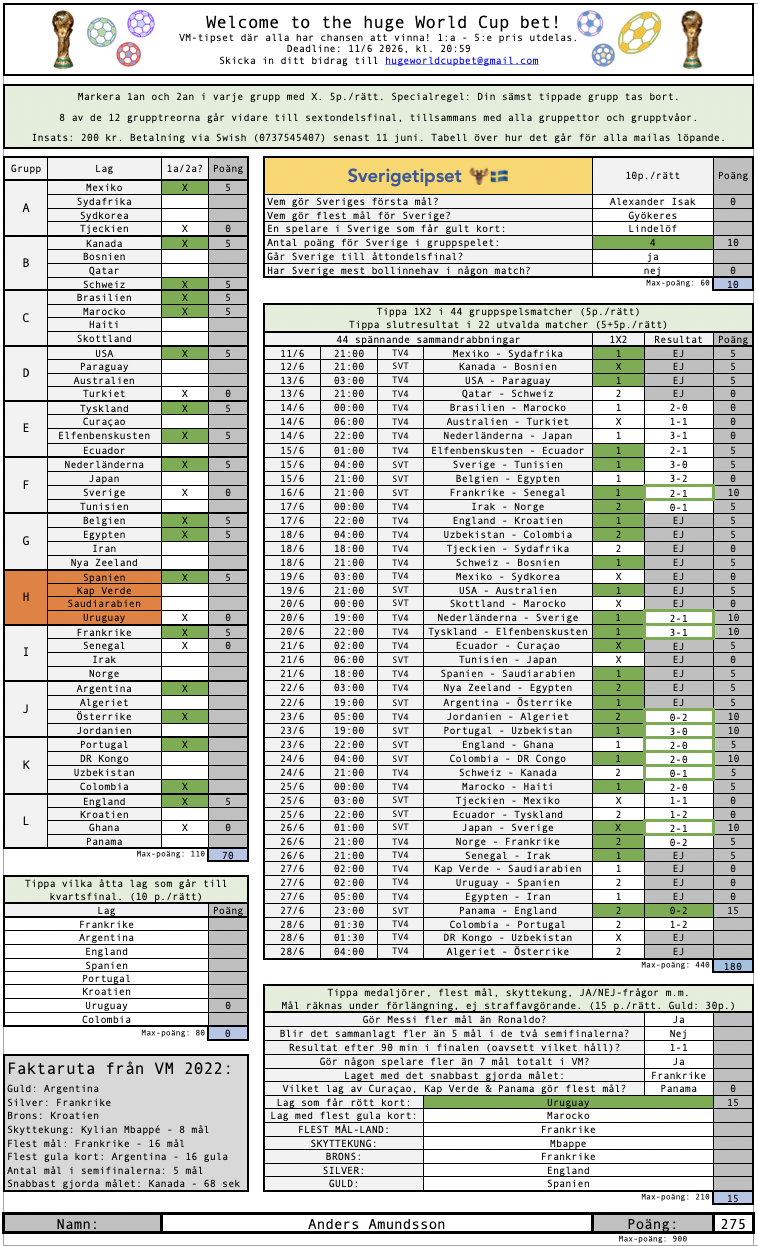
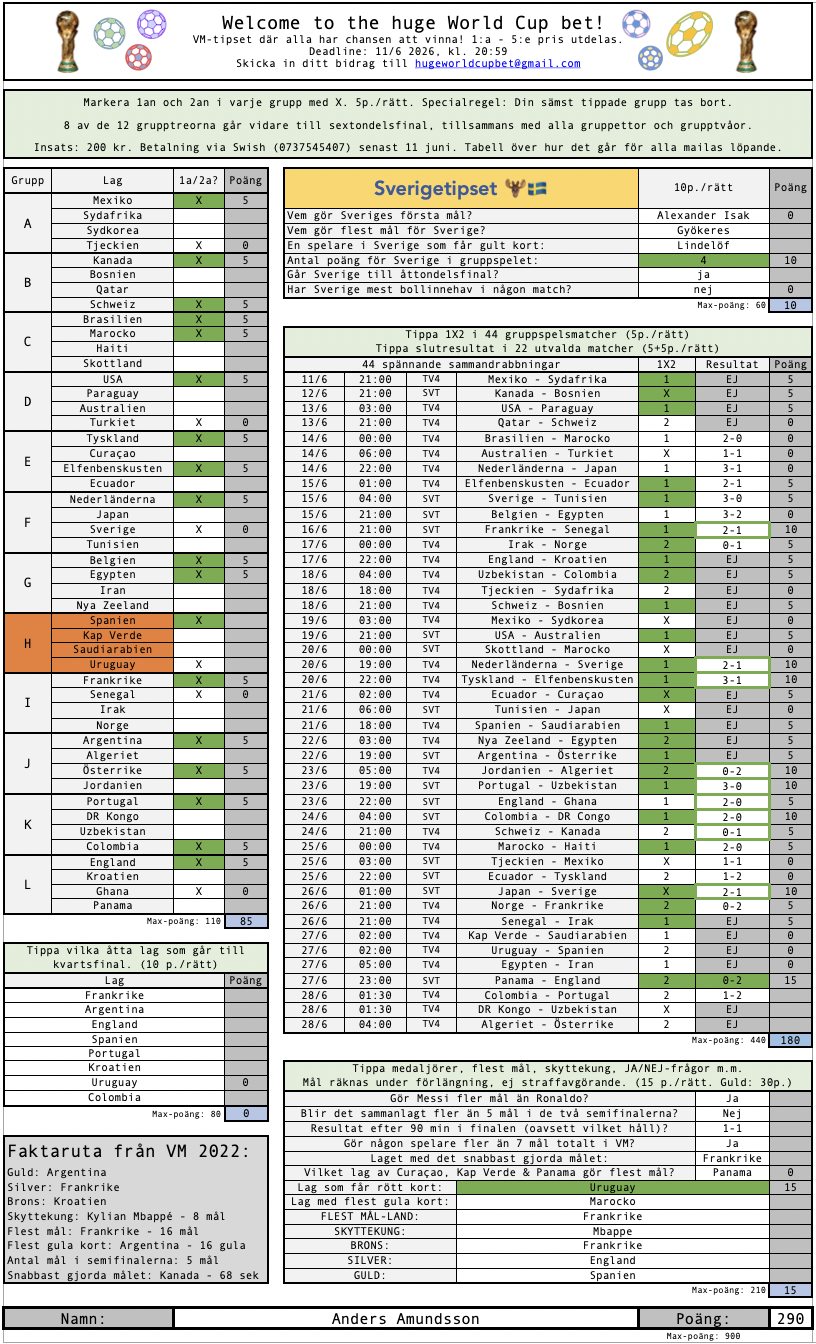
Fixing table and some coupons

diff --git a/src/app/page.js b/src/app/page.js
@@ -133,6 +133,7 @@ export default function Home() {
               <h4>320 poäng:</h4>
               <ul>
                 <li>Alessandro</li>
+                <li>Filip</li>
                 <li>Gabriel</li>
                 <li>Henrik</li>
                 <li>Mattias</li>
@@ -157,11 +158,11 @@ export default function Home() {
             </div>
 
             <div className={styles.tableRow}></div>
+
             <div className={styles.tableRow}>
               <h4>300 poäng:</h4>
               <ul>
                 <li>Aksel</li>
-                <li>Filip</li>
                 <li>Martin</li>
                 <li>Sonja</li>
               </ul>
@@ -173,9 +174,14 @@ export default function Home() {
                 <li>Oliver</li>
               </ul>
 
+              <h4>290 poäng:</h4>
+              <ul>
+                <li>Anders</li>
+                <li>Anncatrine</li>
+              </ul>
+
               <h4>285 poäng:</h4>
               <ul>
-                <li>Anncatrine</li>
                 <li>Basta</li>
                 <li>Clas</li>
                 <li>Hannes</li>
@@ -189,7 +195,6 @@ export default function Home() {
 
               <h4>275 poäng:</h4>
               <ul>
-                <li>Anders</li>
                 <li>Berit</li>
                 <li>Jonas</li>
               </ul>
